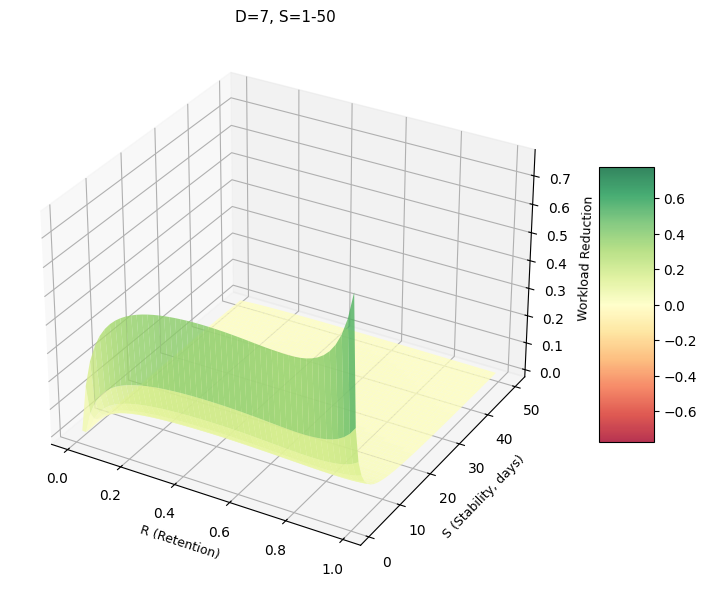
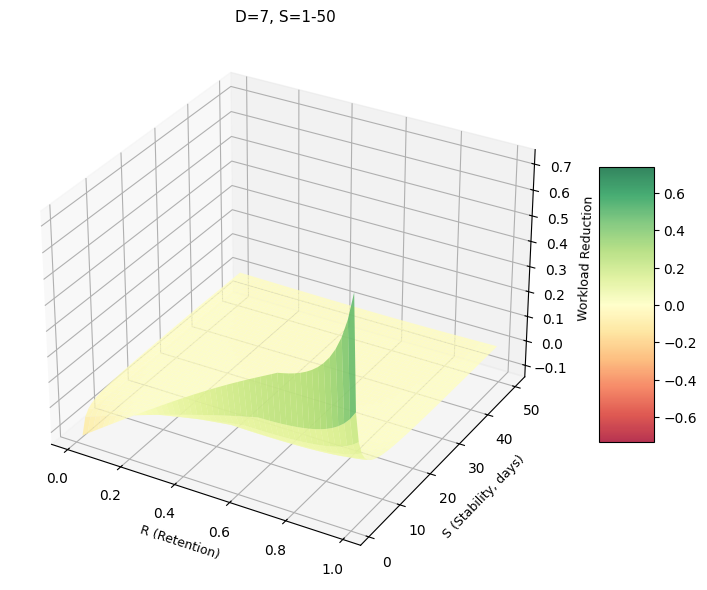
Fix Predicted Workload Formula

diff --git a/workload_analysis.py b/workload_analysis.py
@@ -86,15 +86,12 @@ def calculate_workload_reduction(R: torch.Tensor, S: float, D: float, fsrs: FSRS
     S_success = fsrs.calculate_success_stability(S_tensor, D, R)
     S_failure = fsrs.calculate_failure_stability(S_tensor, D, R)
 
-    # Expected stability after review (weighted by success/failure probability)
-    S_new = R * S_success + (1 - R) * S_failure
-
-    # Workload = 1 / interval, where interval is when retention drops to R
     interval_init = fsrs.interval_from_retention(R, S)
-    interval_after = fsrs.interval_from_retention(R, S_new)
+    interval_after_success = fsrs.interval_from_retention(R, S_success)
+    interval_after_failure = fsrs.interval_from_retention(R, S_failure)
 
     workload_init = 1 / interval_init
-    workload_after = 1 / interval_after
+    workload_after = R * (1 / interval_after_success)  + (1 - R) * (1 / interval_after_failure)
     return workload_init - workload_after
 
 

diff --git a/README.md b/README.md
@@ -7,7 +7,8 @@ Analysis tools for understanding workload reduction in the FSRS (Free Spaced Rep
 ### `workload_analysis.py`
 Main analysis script that visualizes workload reduction based on FSRS-6 parameters:
 - **Workload reduction** = `workload_init - workload_after`
-- Where `workload_init = 1/S` (reviews per day before) and `workload_after = 1/(S×expected_increase)` (reviews per day after)
+- Where workload is calculated as `1 / interval_from_retention(R, S)`
+- This uses the actual review interval when retention drops to desired level R, rather than raw stability S
 
 Two visualization modes:
 1. **By Difficulty**: Varies Difficulty (D) and Retention (R) for fixed Stability (S)
